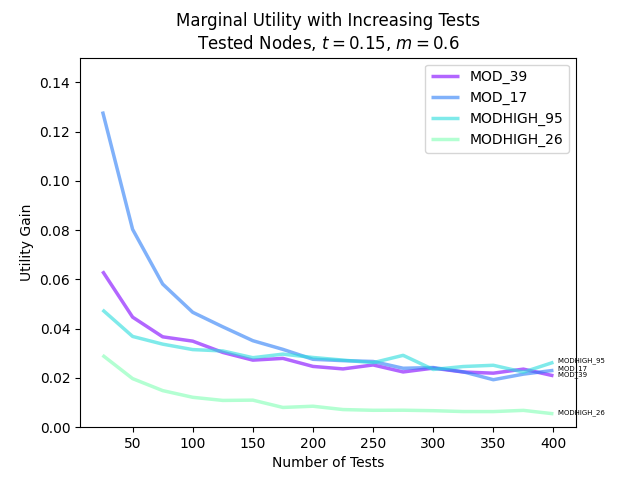
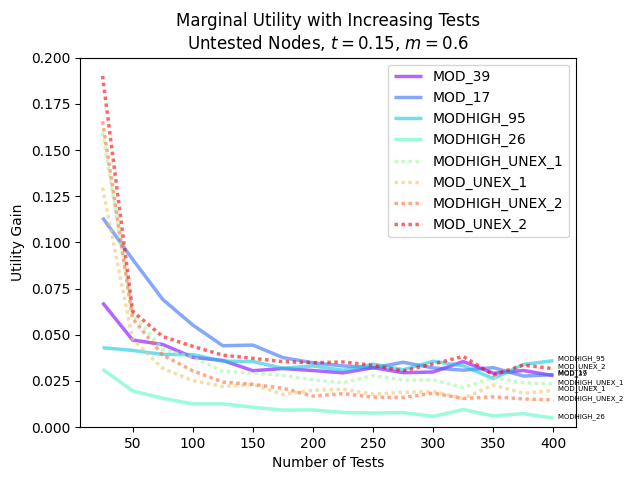
more CS runs

diff --git a/bayesianexperimentation/bayesianexperimentaldesign.py b/bayesianexperimentation/bayesianexperimentaldesign.py
@@ -3583,10 +3583,74 @@ def allocationCaseStudy():
         0.3826856 , 0.420761  , 0.45191826, 0.48474868, 0.52308104,
         0.55385617, 0.58795831, 0.61952707, 0.65906563, 0.68235346,
         0.72200839, 0.74644746]])
+    array([[0.        , 0.06365932, 0.10950469, 0.1609616 , 0.19461373,
+        0.23350729, 0.26615562, 0.29897322, 0.33205368, 0.36145503,
+        0.38808835, 0.42039452, 0.44982499, 0.48629484, 0.51176078,
+        0.54578547, 0.57577455],
+       [0.        , 0.11304309, 0.20590553, 0.27565574, 0.33266932,
+        0.37409409, 0.42081798, 0.45888764, 0.49427222, 0.52543912,
+        0.55629751, 0.59436808, 0.61985865, 0.65405296, 0.6899349 ,
+        0.71098932, 0.73987468],
+       [0.        , 0.03753198, 0.08079193, 0.12107753, 0.15650226,
+        0.19178923, 0.22688376, 0.26125976, 0.29309835, 0.32764069,
+        0.35735986, 0.39364372, 0.42696532, 0.45626625, 0.48445524,
+        0.52402946, 0.55145933],
+       [0.        , 0.02735915, 0.04695877, 0.06098053, 0.07201971,
+        0.08722405, 0.09646058, 0.10569449, 0.11649445, 0.12574708,
+        0.13192071, 0.14234507, 0.14563329, 0.15567794, 0.16090811,
+        0.16911138, 0.17378941],
+       [0.        , 0.1546365 , 0.21492253, 0.25965131, 0.2913728 ,
+        0.32283277, 0.35105516, 0.37957371, 0.40422641, 0.42985746,
+        0.46079348, 0.48467618, 0.50805361, 0.53124423, 0.55974178,
+        0.58268751, 0.60032564],
+       [0.        , 0.12248466, 0.17273202, 0.20577061, 0.23138242,
+        0.25061622, 0.27616279, 0.29154608, 0.31498805, 0.33517357,
+        0.35143201, 0.36801609, 0.38547778, 0.40752003, 0.42593216,
+        0.44753049, 0.46938331],
+       [0.        , 0.15454709, 0.21575688, 0.25669441, 0.28970219,
+        0.31219942, 0.3370518 , 0.35858507, 0.3743053 , 0.39077583,
+        0.41226686, 0.42517042, 0.44587235, 0.45809503, 0.48091973,
+        0.4884835 , 0.50883647],
+       [0.        , 0.18186273, 0.24612653, 0.29601034, 0.34045155,
+        0.37822993, 0.41454441, 0.45768224, 0.48933383, 0.51907436,
+        0.55811461, 0.58746235, 0.62188249, 0.65728346, 0.69222976,
+        0.71887982, 0.75337079]])
+    array([[0.        , 0.06947252, 0.11662215, 0.15755282, 0.1942697 ,
+        0.23412758, 0.25974048, 0.29925888, 0.32484991, 0.35407747,
+        0.38835253, 0.41989588, 0.44652242, 0.48394223, 0.5157128 ,
+        0.5446937 , 0.55898052],
+       [0.        , 0.11427425, 0.20721381, 0.2761393 , 0.3353276 ,
+        0.37522058, 0.41668167, 0.45751435, 0.49194261, 0.53069402,
+        0.56127741, 0.59590481, 0.63113675, 0.66324178, 0.69027332,
+        0.7155674 , 0.74726802],
+       [0.        , 0.04341569, 0.0839089 , 0.1238116 , 0.16518603,
+        0.19859949, 0.23073993, 0.26643012, 0.29772631, 0.32808907,
+        0.3700698 , 0.39169995, 0.42482025, 0.46333427, 0.4920214 ,
+        0.53291002, 0.56366729],
+       [0.        , 0.03178198, 0.05001467, 0.06501726, 0.07918138,
+        0.09263453, 0.10276223, 0.1107169 , 0.12026944, 0.12998334,
+        0.1378351 , 0.14011023, 0.15076848, 0.15957623, 0.16499836,
+        0.17517087, 0.17950081],
+       [0.        , 0.15315007, 0.21795947, 0.25735752, 0.29596223,
+        0.32597034, 0.3595487 , 0.38528441, 0.40908897, 0.43492392,
+        0.45931914, 0.48909902, 0.50929949, 0.53445232, 0.56248594,
+        0.58785282, 0.61280029],
+       [0.        , 0.129361  , 0.17405968, 0.20560884, 0.22820745,
+        0.24980665, 0.27551107, 0.29529033, 0.31338793, 0.33225207,
+        0.34819326, 0.37111667, 0.39535168, 0.41138747, 0.43349021,
+        0.44473477, 0.46801298],
+       [0.        , 0.16422432, 0.22472512, 0.26106262, 0.29532745,
+        0.31921377, 0.34206598, 0.36315634, 0.38085921, 0.39924074,
+        0.41219344, 0.43172985, 0.44942707, 0.46366552, 0.47981999,
+        0.49360741, 0.51467251],
+       [0.        , 0.18789073, 0.24820762, 0.29733834, 0.33933636,
+        0.37804435, 0.41493604, 0.4525151 , 0.48808067, 0.52382348,
+        0.55639513, 0.58942008, 0.6264908 , 0.65982243, 0.69214791,
+        0.72739587, 0.75771954]])
     '''
     avgUtilMat = np.average(np.array(utilMatList), axis=0)
     plotMargUtil(avgUtilMat, testMax, testInt, labels=dictTemp['outletNames'], type='delta',
-                 titleStr='Untested Nodes, $t=0.15$, $m=0.6$', lineLabels=True, utilMax=0.15,
+                 titleStr='Untested Nodes, $t=0.15$, $m=0.6$', lineLabels=True, utilMax=0.2,
                  colors=cm.rainbow(np.linspace(0, 1., numTN)),
                  dashes=[[1, 0] for tn in range(4)]+[[1, 1] for tn in range(4)])
     allocArr, objValArr = smoothAllocationForward(avgUtilMat)
@@ -3594,83 +3658,108 @@ def allocationCaseStudy():
               labels=dictTemp['outletNames'], titleStr='Untested Nodes, $t=0.15$, $m=0.6$', allocMax=250,
               colors=cm.rainbow(np.linspace(0, 1., numTN)), dashes=[[1, 0] for tn in range(4)]+[[1, 1] for tn in range(4)])
 
-
-
-    plotMargUtil(currMargUtilMat, testMax, testInt, labels=dictTemp['outletNames'],
-                 titleStr='R2: Adding Untested Regions', utilMax=1.)
-    # Plot allocation at each test node as the sample budget increase
-    allocArr, _ = smoothAllocationForward(currMargUtilMat)
-    plotAlloc(allocArr, paramList=[str(i) for i in np.arange(testInt, testMax + 1, testInt)], testInt=testInt,
-              labels=dictTemp['outletNames'], titleStr='vs. Sample Budget; R2')
-
     ########################
-    #### RUN 3: UNTESTED REGIONS, WITH DIFFERENT THRESHOLD
+    #### RUN 3: UNTESTED REGIONS, WITH DIFFERENT UNDERESTTIMATION PENALTY
     ########################
-    underWt, t = 5., 0.05
+    underWt, t, checkSlope = 1., 0.15, 0.6
     scoredict = {'name': 'AbsDiff', 'underEstWt': underWt}
-    riskdict = {'name': 'Parabolic', 'threshold': t}
+    riskdict = {'name': 'Check', 'threshold': t, 'slope': checkSlope}
     marketvec = np.ones(numTN + numSN)
     lossDict = {'scoreDict': scoredict, 'riskDict': riskdict, 'marketVec': marketvec}
-    lossDict.update({'bayesDraws': setDraws})
+    numBayesNeigh = 1000
+    lossDict.update({'bayesDraws': setDraws, 'bayesEstNeighborNum': numBayesNeigh})
 
-    # Get marginal utilities at each node
-    currMargUtilMat = GetMargUtilAtNodes(dictTemp.copy(), testMax, testInt, lossDict.copy(), utilDict.copy(),
-                                         printUpdate=True)
-    print(repr(currMargUtilMat))
-    plotMargUtil(currMargUtilMat, testMax, testInt, labels=dictTemp['outletNames'],
-                 titleStr='Tested Nodes, $t=0.05$, $|\hat{\Gamma}|=15,000$',
-                 colors=cm.rainbow(np.linspace(0., 1., numTN)),
-                 dashes=[[1, 0] for tn in range(4)] + [[1, 1] for tn in range(4)],
-                 utilMax=1.2, lineLabels=True)
-
-    allocArr, objValArr = smoothAllocationForward(currMargUtilMat)
-    plotAlloc(allocArr, paramList=[str(i) for i in np.arange(testInt, testMax + 1, testInt)], testInt=testInt,
-              labels=dictTemp['outletNames'], titleStr='Tested Nodes, $t=0.05$, $|\hat{\Gamma}|=15,000$',
-              colors=cm.rainbow(np.linspace(0., 1., numTN)),
-              dashes=[[1, 0] for tn in range(4)] + [[1, 1] for tn in range(4)],
-              allocMax=550)
-    '''15-FEB; 17k/5.1/5; t=0.05; testMax=1000;testInt=50
-    currMargUtilMat=np.array([[0.        , 0.06852339, 0.12165416, 0.17432376, 0.23012671,
-        0.2874021 , 0.3519064 , 0.40615666, 0.45956389, 0.51971968,
-        0.58863212, 0.64942133, 0.69901231, 0.76779122, 0.82207509,
-        0.86789416, 0.93837781, 0.96820894, 1.02289345, 1.0567527 ,
-        1.11307388],
-       [0.        , 0.15169723, 0.23515401, 0.29679159, 0.36579304,
-        0.42062138, 0.49126992, 0.5421497 , 0.60869883, 0.67867711,
-        0.73049236, 0.79087264, 0.84076052, 0.89105791, 0.93487415,
-        0.99815868, 1.06440614, 1.09105896, 1.12227614, 1.17931655,
-        1.21910811],
-       [0.        , 0.0428723 , 0.08528072, 0.1331968 , 0.18030479,
-        0.22981299, 0.28788451, 0.34295736, 0.40719648, 0.45611574,
-        0.53090659, 0.58582258, 0.64943461, 0.69999693, 0.77044199,
-        0.82941364, 0.88404265, 0.93422418, 0.98819401, 1.04611529,
-        1.07253454],
-       [0.        , 0.03600717, 0.0522843 , 0.06654548, 0.08120983,
-        0.09547368, 0.10294925, 0.11610443, 0.12764184, 0.13774301,
-        0.14822646, 0.15596168, 0.17141659, 0.18294141, 0.1943272 ,
-        0.20289273, 0.22301868, 0.23239612, 0.24278466, 0.24767882,
-        0.27369702],
-       [0.        , 0.13914847, 0.19495071, 0.23681787, 0.27904463,
-        0.32571243, 0.36619166, 0.4175406 , 0.45930169, 0.51102762,
-        0.5521382 , 0.60806108, 0.65298784, 0.7011947 , 0.74890294,
-        0.79111603, 0.84591961, 0.87028924, 0.91313416, 0.95398469,
-        0.99822174],
-       [0.        , 0.10647196, 0.13915476, 0.17283143, 0.20484974,
-        0.23885253, 0.27997141, 0.31169295, 0.35333809, 0.38625903,
-        0.4225749 , 0.46686689, 0.50787711, 0.54154793, 0.59109193,
-        0.61544808, 0.66739554, 0.70844375, 0.7498337 , 0.78826019,
-        0.82550693],
-       [0.        , 0.13149522, 0.18415976, 0.22077516, 0.25390113,
-        0.2891384 , 0.31500467, 0.35073454, 0.37842808, 0.41105647,
-        0.44165617, 0.47563115, 0.50799145, 0.53393585, 0.55747793,
-        0.60473435, 0.62181545, 0.65159317, 0.68866879, 0.71556783,
-        0.7524737 ],
-       [0.        , 0.12771123, 0.20420549, 0.26813061, 0.33368571,
-        0.39644792, 0.4595835 , 0.51924163, 0.5944885 , 0.66706634,
-        0.72949206, 0.78904097, 0.85500961, 0.91747872, 0.96467083,
-        1.01870722, 1.04996855, 1.12745302, 1.1573067 , 1.21372401,
-        1.25139606]])
+    numReps = 3
+    utilMatList = []
+    for rep in range(numReps):
+        # Withdraw a subset of MCMC prior draws
+        dictTemp = CSdict3.copy()
+        dictTemp.update({'postSamples': CSdict3['postSamples'][choice(np.arange(numdraws), size=numtargetdraws,
+                                                                      replace=False)],
+                         'numPostSamples': numtargetdraws})
+        # Get marginal utilities at each test node
+        currMargUtilMat = GetMargUtilAtNodes(dictTemp.copy(), testMax, testInt, lossDict.copy(), utilDict.copy(),
+                                             masterDraws=CSdict3['postSamples'], printUpdate=True)
+        print(repr(currMargUtilMat))
+        utilMatList.append(currMargUtilMat)
+    ''' 26-FEB run
+    array([[0.        , 0.02069255, 0.04458342, 0.06551397, 0.08308092,
+        0.09760111, 0.11330322, 0.12763283, 0.14332117, 0.15813074,
+        0.16938086, 0.18514084, 0.19822852, 0.21116371, 0.22525667,
+        0.23703929, 0.25435703],
+       [0.        , 0.05660208, 0.09833728, 0.12807691, 0.1514547 ,
+        0.17329164, 0.19012796, 0.20705356, 0.22378051, 0.23957166,
+        0.25342137, 0.26230654, 0.27701867, 0.29055076, 0.30369486,
+        0.31861295, 0.32911707],
+       [0.        , 0.0230299 , 0.04452637, 0.06576813, 0.08544564,
+        0.10519873, 0.12295234, 0.14089305, 0.1546541 , 0.17220369,
+        0.1867138 , 0.20288912, 0.21903272, 0.23658452, 0.24893038,
+        0.2616153 , 0.27852291],
+       [0.        , 0.01111938, 0.01834382, 0.02372848, 0.02889145,
+        0.0345577 , 0.03792555, 0.04182679, 0.04487717, 0.04875855,
+        0.05168749, 0.05509503, 0.05711767, 0.06076265, 0.06295074,
+        0.06639474, 0.06875545],
+       [0.        , 0.06275262, 0.08773853, 0.1058488 , 0.12044278,
+        0.13648007, 0.1475006 , 0.16115385, 0.17270655, 0.1836596 ,
+        0.19608572, 0.20731562, 0.22052108, 0.22943995, 0.2386912 ,
+        0.25141033, 0.26097369],
+       [0.        , 0.03812277, 0.05948703, 0.07496897, 0.08740455,
+        0.09987248, 0.10945591, 0.11788759, 0.12801217, 0.13493769,
+        0.14389235, 0.15344933, 0.16172501, 0.16956773, 0.17749017,
+        0.1869908 , 0.19760469],
+       [0.        , 0.05406249, 0.08208537, 0.10021956, 0.11322712,
+        0.12574856, 0.13630421, 0.14615701, 0.15639804, 0.1625558 ,
+        0.1705132 , 0.17909311, 0.18559   , 0.19339706, 0.19873884,
+        0.20440321, 0.21319155],
+       [0.        , 0.05350065, 0.08463913, 0.10753767, 0.12863813,
+        0.14667226, 0.16530752, 0.18214046, 0.19751736, 0.21517109,
+        0.22955509, 0.24537419, 0.26138117, 0.27736145, 0.29189017,
+        0.30605202, 0.32007962]])
+    array([[0.        , 0.02176115, 0.04400448, 0.06518422, 0.08134434,
+        0.09886236, 0.11324291, 0.12709301, 0.14217017, 0.15562176,
+        0.16763917, 0.18284723, 0.19815912, 0.21104475, 0.22329571,
+        0.23609218, 0.25245734],
+       [0.        , 0.05695477, 0.09897979, 0.12891665, 0.15148177,
+        0.17197528, 0.19038331, 0.20743618, 0.22256158, 0.24102832,
+        0.25189359, 0.26744422, 0.28029378, 0.29407925, 0.30608727,
+        0.31827602, 0.3316861 ],
+       [0.        , 0.02528856, 0.04644882, 0.06652176, 0.08626884,
+        0.10340472, 0.12181029, 0.13742387, 0.15592993, 0.17039062,
+        0.18880301, 0.20239173, 0.21911581, 0.23273456, 0.24983507,
+        0.26034903, 0.27695935],
+       [0.        , 0.01306588, 0.02064912, 0.02673917, 0.03262489,
+        0.03702598, 0.0417469 , 0.04509045, 0.04898259, 0.05216692,
+        0.0557242 , 0.05892393, 0.06129405, 0.06368874, 0.06779176,
+        0.0702996 , 0.07406162],
+       [0.        , 0.06294152, 0.08767957, 0.10494632, 0.12080667,
+        0.1359122 , 0.14938481, 0.16181819, 0.17196071, 0.18357414,
+        0.19497339, 0.20470537, 0.219929  , 0.22815983, 0.23878045,
+        0.24810671, 0.26038506],
+       [0.        , 0.04183325, 0.06379209, 0.0789733 , 0.09087459,
+        0.10022007, 0.11115084, 0.12031334, 0.12872621, 0.13505364,
+        0.146246  , 0.15510141, 0.16108854, 0.17175668, 0.1806247 ,
+        0.18811235, 0.19569677],
+       [0.        , 0.05418702, 0.08079035, 0.09825369, 0.11209794,
+        0.12349488, 0.13456499, 0.1441613 , 0.15272419, 0.1604612 ,
+        0.16851196, 0.17406008, 0.18100455, 0.18917292, 0.19626452,
+        0.20352251, 0.20969879],
+       [0.        , 0.05606719, 0.08725652, 0.11112959, 0.13266178,
+        0.152205  , 0.16960726, 0.18774697, 0.20314747, 0.21661785,
+        0.23668618, 0.25112108, 0.26783077, 0.28197487, 0.29240755,
+        0.30912927, 0.32482972]])
     '''
+    avgUtilMat = np.average(np.array(utilMatList), axis=0)
+    plotMargUtil(avgUtilMat, testMax, testInt, labels=dictTemp['outletNames'], type='delta', lineLabels=True,
+                 titleStr='Untested Nodes, $t=0.15$, $m=0.6$, $v=1.0$', utilMax=np.max(avgUtilMat[:,1]*1.1),
+                 colors=cm.rainbow(np.linspace(0, 1., numTN)),
+                 dashes=[[1, 0] for tn in range(4)] + [[1, 1] for tn in range(4)])
+    allocArr, objValArr = smoothAllocationForward(avgUtilMat)
+    plotAlloc(allocArr, paramList=[str(i) for i in np.arange(testInt, testMax + 1, testInt)], testInt=testInt,
+              labels=dictTemp['outletNames'], titleStr='Untested Nodes, $t=0.15$, $m=0.6$, $v=1.0$', allocMax=250,
+              colors=cm.rainbow(np.linspace(0, 1., numTN)),
+              dashes=[[1, 0] for tn in range(4)] + [[1, 1] for tn in range(4)])
+
+
     ########################
     #### RUN 4: UNTESTED REGIONS, WITH DIFFERENT SOURCING
     ########################
